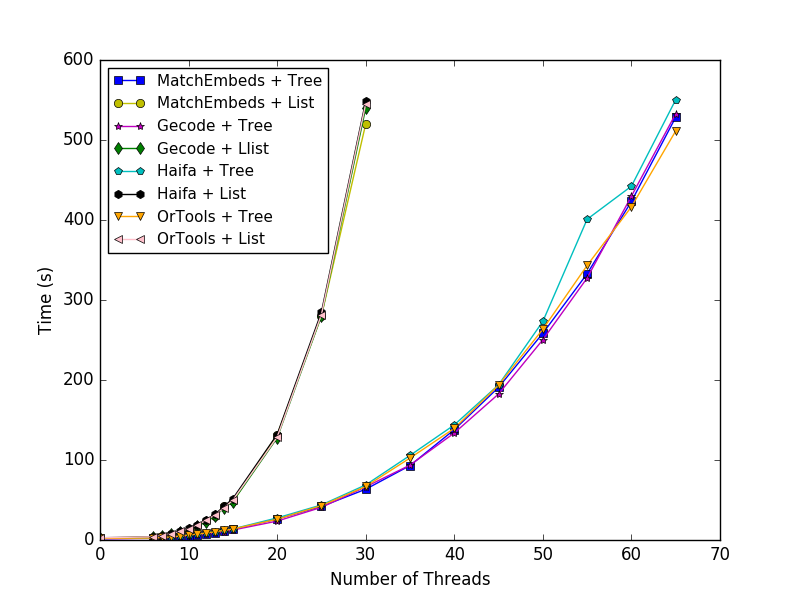
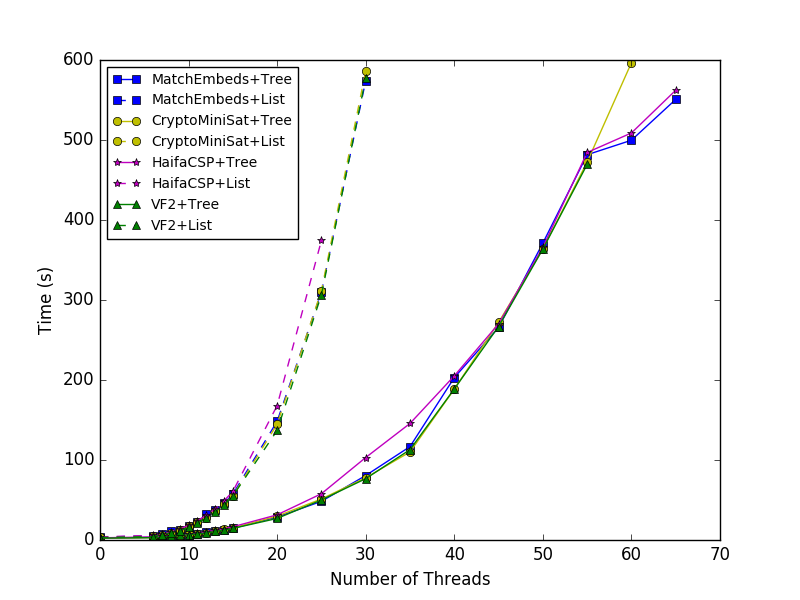
Initial results of embeds algo in proofspaces

diff --git a/test_tree/results/plot.py b/test_tree/results/plot.py
@@ -1,0 +1,67 @@
+#! /usr/bin/python
+import matplotlib.pyplot as plt
+import numpy as np
+import sys
+import re
+
+def read_data(file_name):
+    File = open(file_name, 'r')
+    splitter = r'\t+'
+    data = map(list, zip(*map(lambda x: re.split(splitter, x.strip('\n')), File.readlines()[1:])))
+    data[1:] = map(lambda x: map(lambda y: float(y.split(" ")[0]), x), data[1:])
+    return data
+
+if len(sys.argv) < 3:
+    print "Usage: %s <data_file> <time_out> [solver list, ...]" % sys.argv[0]
+    print "\t1 : MatchEmbeds"
+    print "\t2 : CryptoMiniSat"
+    print "\t3 : Lingeling"
+    print "\t4 : HaifaCSP"
+    print "\t5 : Gecode"
+    print "\t6 : VF2"
+    print "\t7 : OrTools"
+    sys.exit(-1)
+
+data = read_data(sys.argv[1])
+TO = int(sys.argv[2])
+
+def plot(data, *args, **kwargs):
+    vals = [5,6,7,8,9,10,11,12,13,14,15,20,25,30,35,40,45,50,55,60,65,70,75,80,85,90,95,100]
+    X = [0]
+    Y = [data[0]]
+    for i in range(1,len(data)):
+        if data[i] > TO:
+            break
+        X.append(vals[i])
+        Y.append(data[i])
+    plt.plot(X, Y, *args, **kwargs)
+
+solver = [("MatchEmbeds","s", "b"),
+          ("CryptoMiniSat","o", "y"),
+          ("Lingeling","h", "r"),
+          ("HaifaCSP","*", "m"),
+          ("Gecode","d", "c"),
+          ("VF2","^", "g"),
+          ("OrTools","p", "orange")]
+# s - square, v ^ < > - triangles, o - circe, p - pentagon, * - star, h H - hexagon, x - x, d D - diamond
+
+solvers = [i for i in range(len(data)/2)]
+if len(sys.argv) > 3:
+    solvers = map(int,sys.argv[3:])
+
+if len(data) < 2*len(solvers):
+    print "Too few data columns provided for number solvers listed"
+    sys.exit(-1)
+
+for i in range(len(solvers)):
+    (label, marker, color) = solver[solvers[i]]
+    plot(data[2*i+1], '-', marker=marker, color=color, label=label+'+Tree')
+    plot(data[2*(i+1)], '--', marker=marker, color=color, label=label+'+List')
+
+plt.xlabel('Number of Threads')
+plt.ylabel('Time (s)')
+plt.ylim((0,TO))
+#plt.yscale('log')
+#plt.legend(bbox_to_anchor=(0.38,1.0), loc=2)
+plt.legend(loc=0, ncol=1, fontsize=10)
+plt.show()
